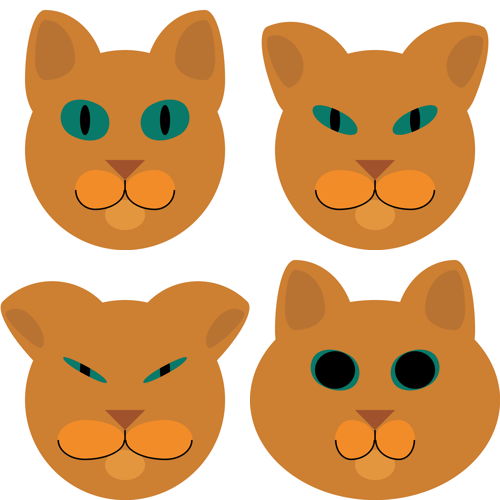
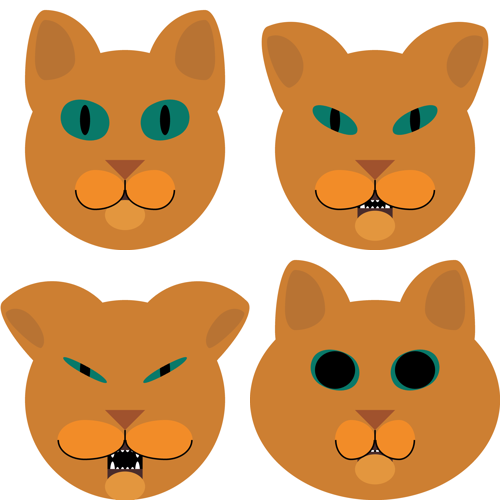
Add mouth

diff --git a/catlib.py b/catlib.py
@@ -89,19 +89,66 @@ class Head:
                      fill=self.f)
         return im
 
-# Chin
+# Mouth
 class Mouth:
-    def __init__(self, width=1, height=1, fill=(227, 150, 62)):
+    def __init__(self, 
+                 openness = 0.0, 
+                 chin_x_offset = 0.0, chin_y_offset = 0.0, 
+                 width=1, height=1,
+                 fill=(227, 150, 62)):
+        self.uox = 1250
+        self.uoy = 1950
+        self.cox = 1250 * (1 + chin_x_offset)
+        self.coy = 2150 * (1 + chin_y_offset + openness*0.1)
         self.w = width
         self.h = height
         self.f = fill
     def draw(self, im):
         im = im.copy()
         draw = ImageDraw.Draw(im)
-        ox = 1250
-        oy = 2150
-        draw.ellipse(xy=[(ox-self.w*200, oy-self.h*150),
-                         (ox+self.w*200, oy+self.h*150)],
+        # Each part of the mouth is overlaid on the previous
+        # lip over teeth, teeth over mouth hole
+        # open mouth, basically a hole
+        draw.rectangle(xy=[(self.uox-self.w*175, self.uoy-self.h*50),
+                         (self.cox+self.w*175, self.coy)],
+                     fill=(0, 0, 0))
+        # upper teef
+        upper_teefs = [
+            (-150, 75, -100),
+            (-100, 20,  -50),
+            ( -50, 20,    0),
+            (   0, 20,   50),
+            (  50, 20,  100),
+            ( 100, 75,  150),
+            ]
+        for t in upper_teefs:
+            draw.ellipse(xy=[(self.uox+self.w*t[0], self.uoy-self.h*(50+t[1])),
+                               (self.uox+self.w*t[2], self.uoy+self.h*(50+t[1]))],
+                        fill=(255, 255, 255))
+        # lower teef
+        lower_teefs = [
+            (-150, 75, -100),
+            (-100, 20,  -50),
+            ( -50, 20,    0),
+            (   0, 20,   50),
+            (  50, 20,  100),
+            ( 100, 75,  150),
+            ]
+        for t in lower_teefs:
+            draw.ellipse(xy=[(self.cox+self.w*t[0], self.coy-self.h*(175+t[1])),
+                               (self.cox+self.w*t[2], self.coy)],
+                        fill=(255, 255, 255))
+        # upper lip
+        draw.rectangle(xy=[(self.uox-self.w*175, self.uoy-self.h*50),
+                         (self.uox+self.w*175, self.uoy+self.h*50)],
+                     fill=(74, 44, 42))
+        # lower lip
+        draw.rectangle(xy=[(self.cox-self.w*175, self.coy-self.h*175),
+                         (self.cox+self.w*175, self.coy)],
+                     fill=(74, 44, 42))
+        # chin
+        draw.ellipse(xy=[(self.cox-self.w*200, self.coy-self.h*150),
+                         (self.cox+self.w*200, self.coy+self.h*150)],
                      fill=self.f)
         return im
 

diff --git a/cat.py b/cat.py
@@ -21,27 +21,27 @@ for x in cat0:
 image.save("cat.png")
 
 cat1 = [Head(),
-       Mouth(),
+       Mouth(openness=0.5),
        LeftCheek(width=1.2),
        RightCheek(width=1.2),
        Nose(),
-       LeftEar(),
-       RightEar(),
+       LeftEar(turn=0.5),
+       RightEar(turn=0.5),
        LeftEye(eye_height=0.5),
        RightEye(eye_height=0.5)]
 
 cat2= [Head(),
-       Mouth(),
+       Mouth(openness=1.0),
        LeftCheek(width=1.35),
        RightCheek(width=1.35),
        Nose(),
-       LeftEar(),
-       RightEar(),
+       LeftEar(turn=1.0),
+       RightEar(turn=1.0),
        LeftEye(eye_height=0.2),
        RightEye(eye_height=0.2)]
 
 cat3= [Head(width=1.25),
-       Mouth(),
+       Mouth(openness=0.2),
        LeftCheek(width=0.8),
        RightCheek(width=0.8),
        Nose(),
